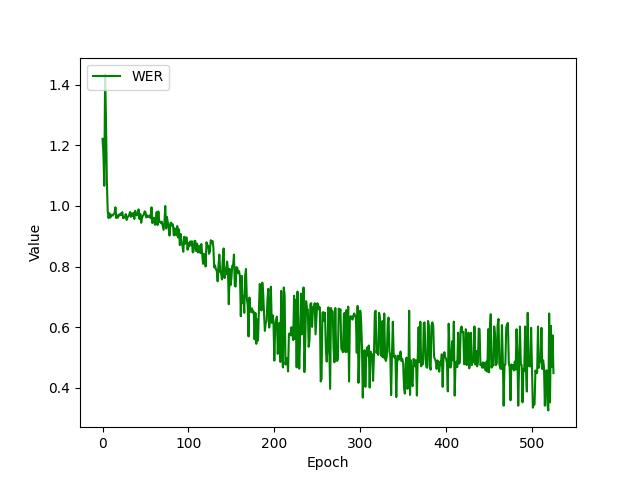
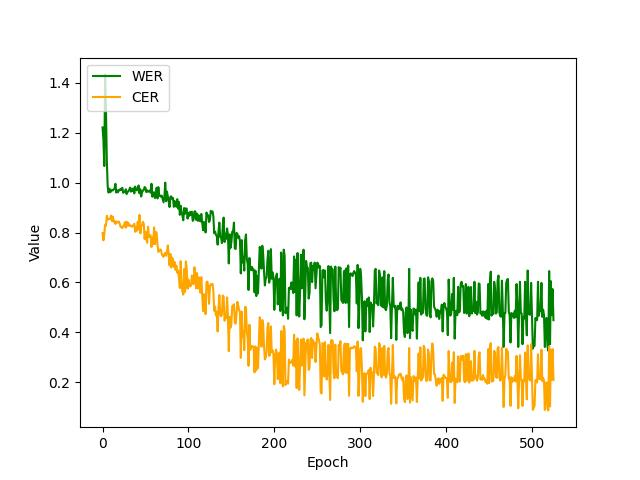
add plots for kd training

diff --git a/Training/plot_metrics.py b/Training/plot_metrics.py
@@ -12,7 +12,6 @@ def plot_losses(run_name):
     plt.plot(train_loss,  color='red')
     plt.plot(val_loss,  color='blue')
 
-    #plt.title('Seventh training')
     plt.ylabel('Value')
     plt.xlabel('Epoch')
     plt.legend(['train_loss', 'val_loss'], loc='upper left')
@@ -25,19 +24,69 @@ def plot_val_metrics(run_name):
     metrics_file = pd.read_csv(f'results/{run_name}/stats.csv')
 
     wer = metrics_file['Mean WER (Norm)']
+    cer = metrics_file['Mean CER (Norm)']
 
     plt.plot(wer, color='green')
-    #plt.title('Seventh training')
+    plt.plot(cer, color='orange')
+
     plt.ylabel('Value')
     plt.xlabel('Epoch')
-    plt.legend(['wer'], loc='upper left')
+    plt.legend(['WER', 'CER'], loc='upper left')
     #plt.show()
     plt.savefig(f"plots/{run_name}/val_metrics.jpg")
     plt.close()
 
 
+def plot_losses_kd(run_name):
+
+    loss_file = pd.read_csv(f'logs/training-{run_name}.csv')
+
+    train_loss_0 = loss_file['train_loss_s0']
+    val_loss_0 = loss_file['val_loss_s0']
+    train_loss_1 = loss_file['train_loss_s1']
+    val_loss_1 = loss_file['val_loss_s1']
+
+    plt.plot(train_loss_0,  color='red')
+    plt.plot(val_loss_0,  color='blue')
+    plt.plot(train_loss_1, color='green')
+    plt.plot(val_loss_1, color='orange')
+
+    plt.ylabel('Value')
+    plt.xlabel('Epoch')
+    plt.legend(['train_loss_s0', 'val_loss_s0','train_loss_s1', 'val_loss_s1'], loc='upper left')
+    #plt.show()
+    plt.savefig(f"plots/{run_name}/losses.jpg")
+    plt.close()
+
+
+def plot_val_metrics_kd(run_name):
+    metrics_file = pd.read_csv(f'results/{run_name}/s0/stats.csv')
+    metrics_file1 = pd.read_csv(f'results/{run_name}/s1/stats.csv')
+
+    wer = metrics_file['Mean WER (Norm)']
+    cer = metrics_file['Mean CER (Norm)']
+    wer1 = metrics_file1['Mean WER (Norm)']
+    cer1 = metrics_file1['Mean CER (Norm)']
+
+    plt.plot(wer, color='green')
+    plt.plot(cer, color='orange')
+    plt.plot(wer1, color='blue')
+    plt.plot(cer1, color='red')
+
+    plt.ylabel('Value')
+    plt.xlabel('Epoch')
+    plt.legend(['WER', 'CER', 'WER1', 'CER1'], loc='upper left')
+    #plt.show()
+    plt.savefig(f"plots/{run_name}/val_metrics.jpg")
+    plt.close()
+
+
+
 if __name__ == '__main__':
-    run_name = ""
+    # Vanilla Training
+    #run_name = "2023_10_26_09_22_27"
+    #run_name = "2023_10_28_11_30_29"
+    run_name = "2023_10_31_18_23_34"
 
     if not os.path.exists("plots"):
         os.mkdir("plots")
@@ -46,5 +95,7 @@ if __name__ == '__main__':
     if not os.path.exists(run_folder):
         os.mkdir(run_folder)
 
-    plot_losses(run_name)
-    plot_val_metrics(run_name)
+    #plot_losses(run_name)
+    #plot_val_metrics(run_name)
+    plot_losses_kd(run_name)
+    plot_val_metrics_kd(run_name)

diff --git a/Training/train_KD.py b/Training/train_KD.py
@@ -93,7 +93,7 @@ def train(run_name, start_epoch, stop_epoch, img_c, img_w, img_h, frames_n, abso
     student_losses_header = [f"{phase}_loss_s{n}" for n in range(peer_networks_n) for phase in ["train", "val"]]
     header_losses_csv = ["Epoch"] + student_losses_header
 
-    with open(os.path.join(LOG_DIR, f'training_{run_name}.csv'), 'w') as csvfile:
+    with open(os.path.join(LOG_DIR, f'training-{run_name}.csv'), 'w') as csvfile:
         csvw = csv.writer(csvfile)
         csvw.writerow(header_losses_csv)
 
@@ -210,7 +210,7 @@ def train(run_name, start_epoch, stop_epoch, img_c, img_w, img_h, frames_n, abso
         # Merge Train and validation losses
         results = np.squeeze(np.stack((mean_epoch_losses, np.array(student_val_losses).reshape(-1, 1))).T)
 
-        with open(os.path.join(LOG_DIR, f'training_{run_name}.csv'), 'a') as csvfile:
+        with open(os.path.join(LOG_DIR, f'training-{run_name}.csv'), 'a') as csvfile:
             csvw = csv.writer(csvfile)
             row = [f"Epoch {epoch}"] + [value for student_loss in results for value in student_loss]
             csvw.writerow(row)
